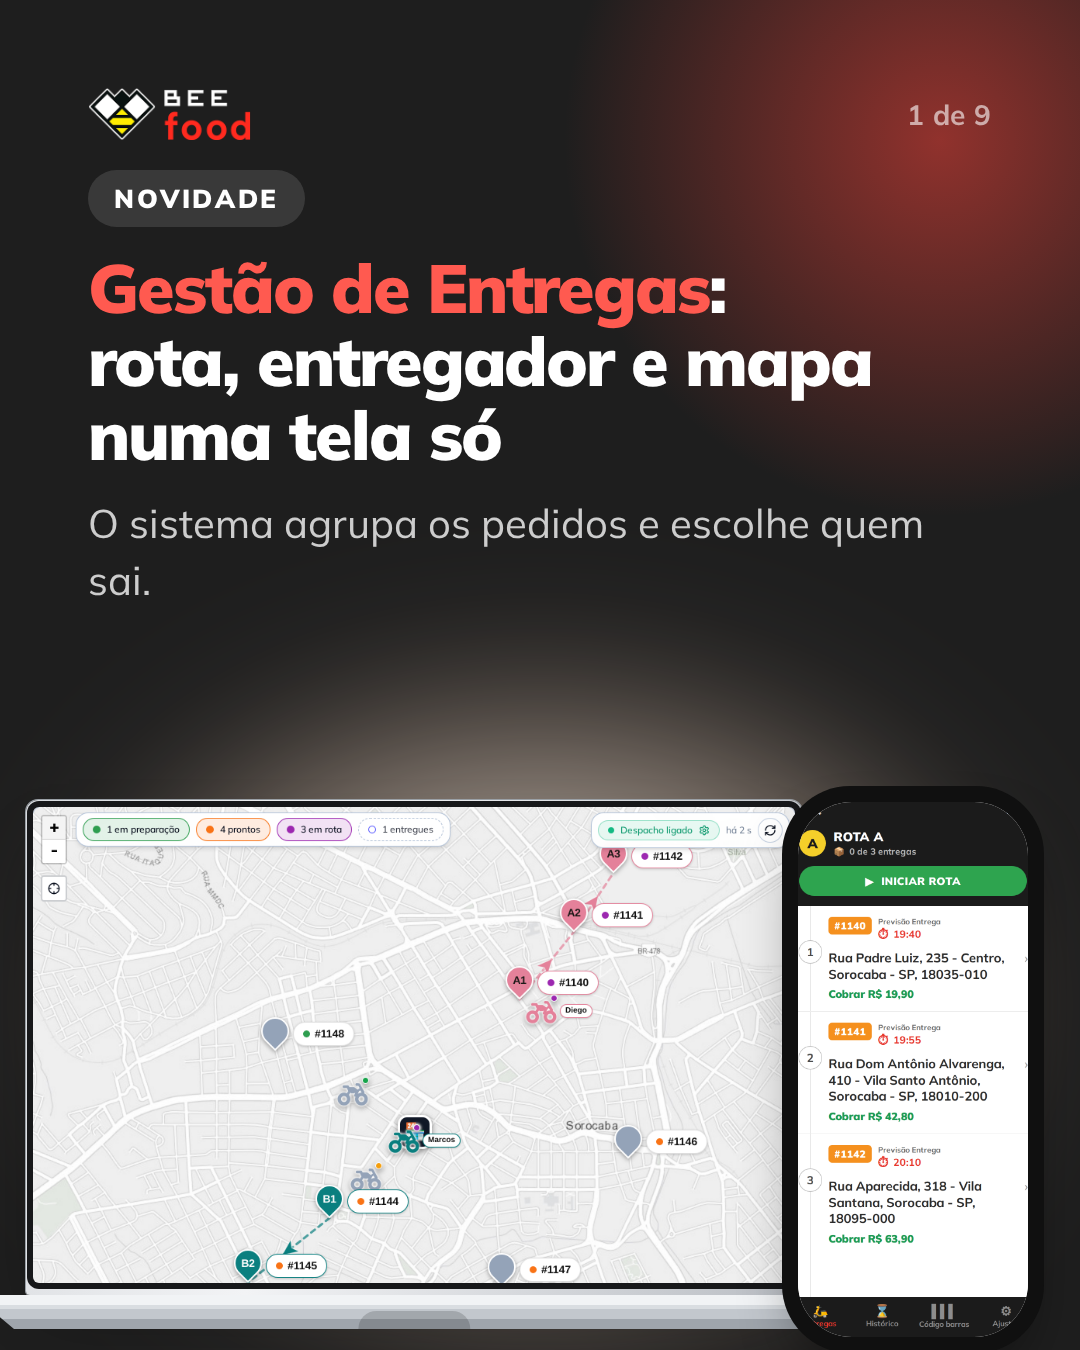
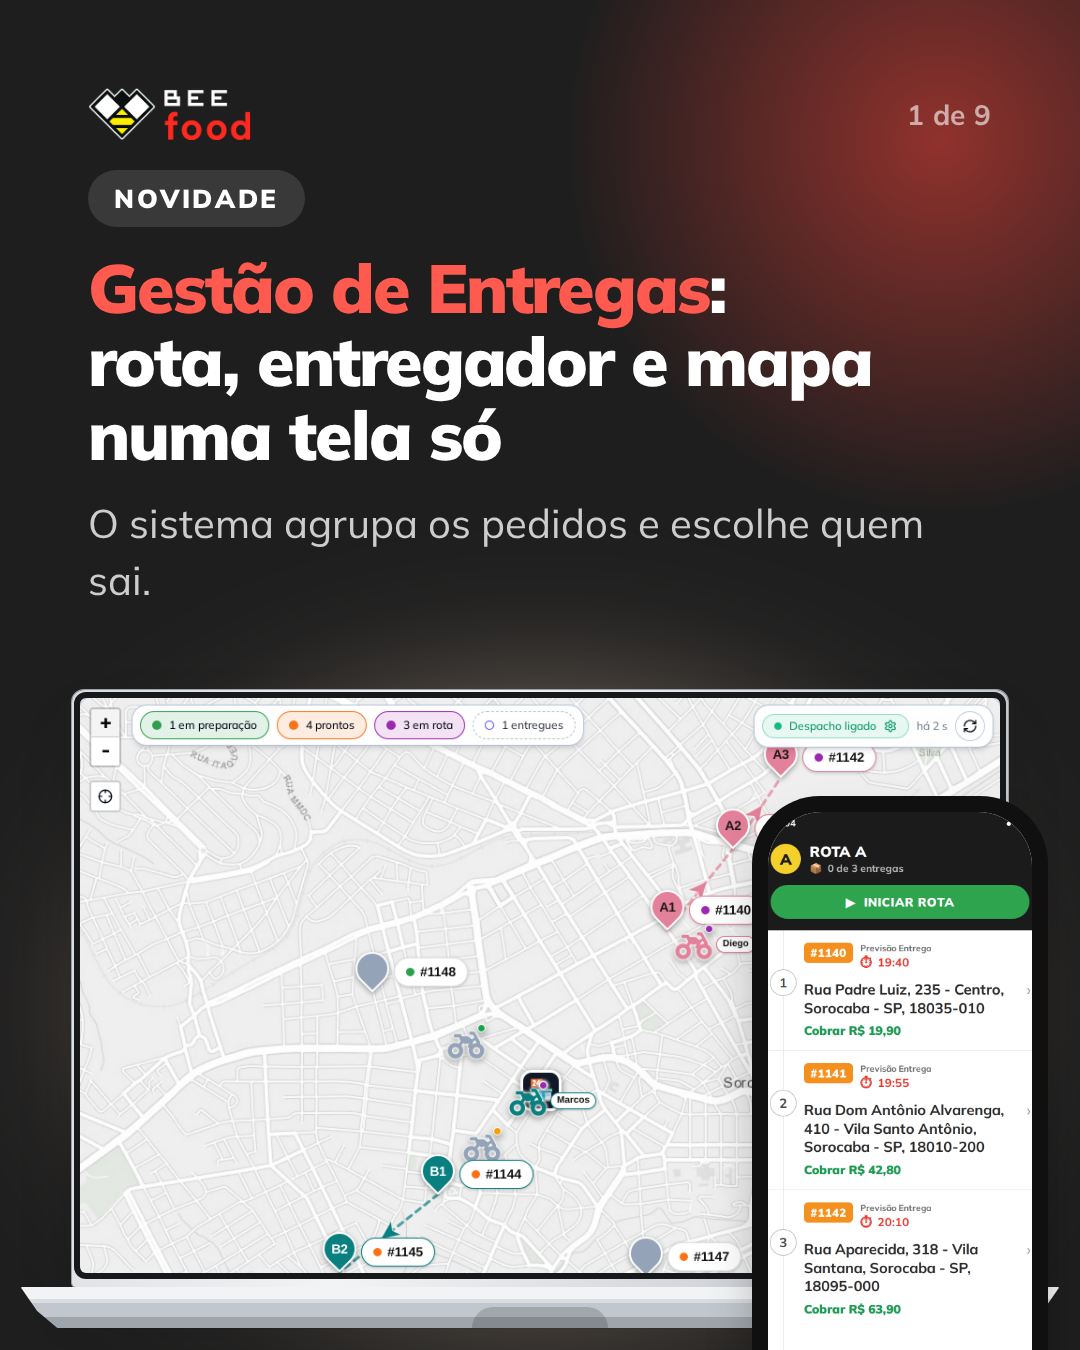
carrossel(10): o notebook da capa alternativa volta ao tamanho da capa principal
"O pc diminuiu pq? apenas incluir o celular." A primeira versão reduziu o
aparelho de 936 para 776 px para abrir espaço lateral, e isso quebra o contrato
da capa alternativa: as duas precisam ser trocáveis, e aparelho de tamanho
diferente muda o peso do slide inteiro — deixa de ser a mesma capa com uma
coisa a mais e vira outra composição.

O notebook voltou aos 936 px, no mesmo lugar, e o celular entra na frente,
encostado na quina direita dele. Ele cobre o canto direito do mapa, onde não
passa rota desenhada, e a sobreposição paga um bônus: dois aparelhos que se
tocam leem como uma mesa, dois lado a lado leem como recortes colados.

Changed region(s): [[0.0, 0.4978, 0.9778, 1.0], [0.3056, 0.8089, 0.3361, 0.84]]

diff --git a/carrosseis/10-gestao-entregas/capa-alternativa/slides/01-capa-pc-e-celular.html b/carrosseis/10-gestao-entregas/capa-alternativa/slides/01-capa-pc-e-celular.html
@@ -3,12 +3,23 @@
 
      Qual usar é escolha de quem publica, e a troca é real:
 
-     - **só notebook** — o mapa vai grande, e dá para ver as duas rotas
-       tracejadas, as paradas numeradas e o nome dos entregadores ao lado do
-       pino. É a capa que prova melhor a frase "numa tela só".
+     - **só notebook** — o mapa fica limpo de ponta a ponta.
      - **notebook + celular** — a capa já diz "tem painel e tem aplicativo" sem
-       gastar linha de texto, e o preço é o mapa ficar 20% menor. Vale quando o
-       post vai para um público que ainda não sabe que existe app do entregador.
+       gastar linha de texto. Vale quando o post vai para um público que ainda
+       não sabe que existe app do entregador.
+
+     O NOTEBOOK NÃO DIMINUI. A primeira versão desta capa reduziu o aparelho de
+     936 para 776 px para abrir espaço ao lado, e o retorno do dono foi direto:
+     *"o pc diminuiu pq? apenas incluir o celular"*. Ele está certo, e o motivo
+     é de arte: as duas capas precisam ser trocáveis, e aparelho de tamanho
+     diferente muda o peso do slide inteiro — a alternativa parava de ser a
+     mesma capa com uma coisa a mais e virava outra composição.
+
+     Então o notebook é o mesmo, no mesmo lugar, e o celular entra NA FRENTE,
+     encostado na quina direita dele. Ele cobre um pedaço do canto do mapa, e
+     esse é o preço certo a pagar: o canto direito do mapa é área sem rota
+     desenhada, e sobreposição é o que faz os dois aparelhos lerem como uma
+     mesa, em vez de dois recortes lado a lado.
 
      Mora numa pasta separada de propósito: o `renderizar.py` transforma em PNG
      todo `.html` de `slides/`, e duas capas na mesma pasta virariam um carrossel
@@ -48,8 +59,9 @@
                                       rgba(255, 214, 184, 0.34) 62%,
                                       rgba(0, 0, 0, 0) 82%)"></div>
 
-  <div class="sangria" style="top: 800px; left: 26px; width: 776px">
-    <div class="notebook" style="width: 776px">
+  <div class="sangria" style="top: 690px; left: 50%; transform: translateX(-50%);
+                              width: 936px">
+    <div class="notebook" style="width: 936px">
       <div class="notebook__tela">
         <img src="../../imagens-puras/mapa-rotas.png"
              alt="Mapa da Gestão de Entregas: duas rotas tracejadas com paradas numeradas, os pinos dos pedidos e os entregadores Diego e Marcos com o nome ao lado">
@@ -58,8 +70,8 @@
     </div>
   </div>
 
-  <div class="sangria" style="top: 786px; left: 782px; width: 262px">
-    <div class="celular">
+  <div class="sangria" style="top: 796px; left: 752px; width: 296px">
+    <div class="celular" style="width: 296px">
       <div class="celular__tela">
         <img src="../../imagens-puras/app-rota.png"
              alt="A mesma rota no aplicativo do entregador: o cabeçalho escuro com o disco da letra A, o botão INICIAR ROTA e as paradas numeradas com o endereço e quanto cobrar">
